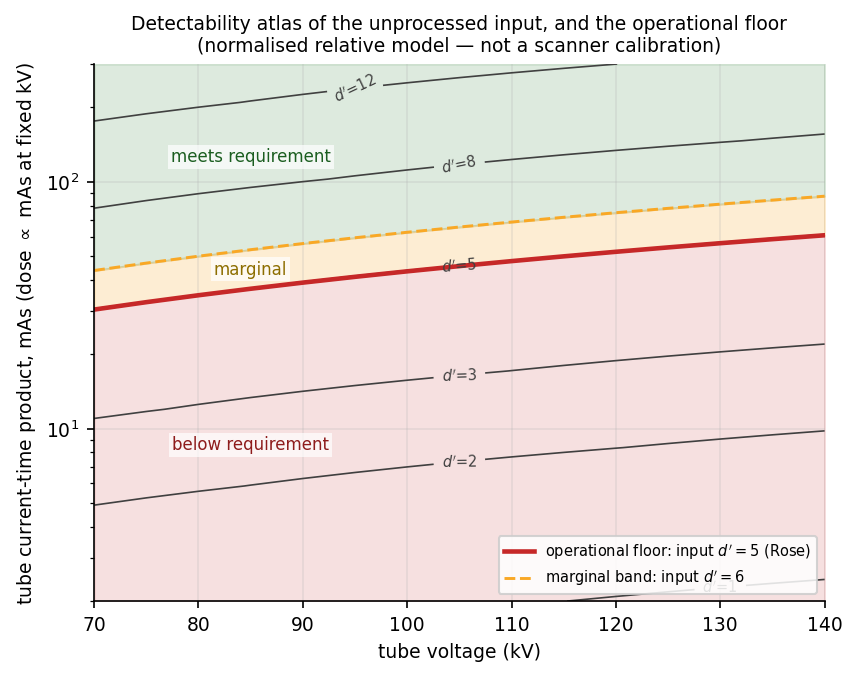
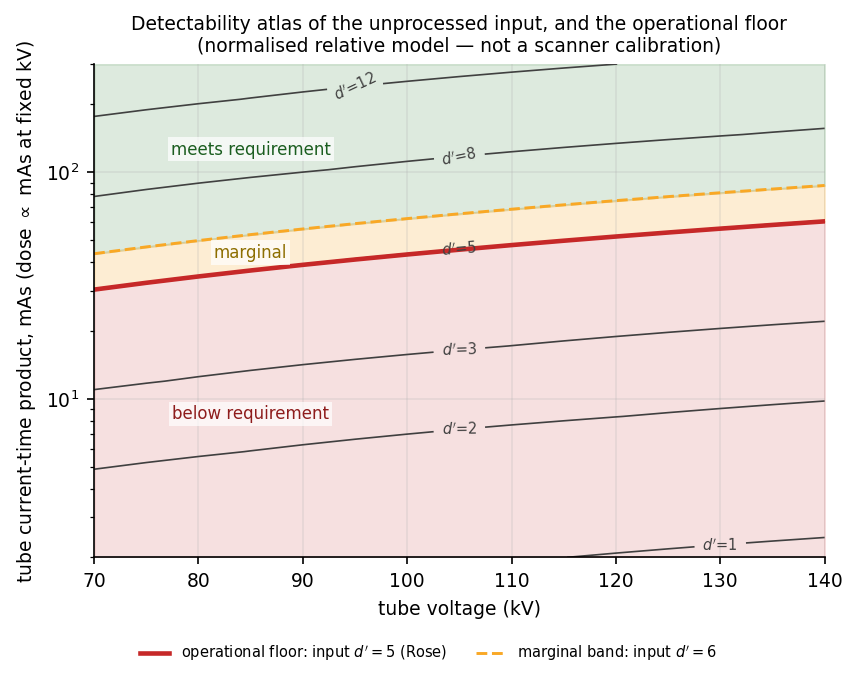
Sweep the remaining figures for the same two faults
After Figures 1, 3 and 6 each turned out to have shipped something wrong, the
other six were checked for the same two things: does the figure hide any of its
own data, and does it say what the text says.

Figure 9's right panel was titled "86x the capacity". That is the claim the
independent review asked to be withdrawn and that Table 3, Contribution 5,
Section 3.6 and the abstract have all been corrected to drop: the two networks
differ in parameters, training patches and epochs together. The title now says
so. Every other place in the submission had been fixed and the figure had not,
which is the same front-matter drift as before wearing a different hat.

Figure 7's legend covered the d'=1 contour. Moving it to the upper left only
traded that for the d'=12 label -- every corner of a contour plot that spans
the axes has a contour in it -- so the legend went outside the axes, where it
cannot cover anything. All six contours and their labels are now visible.

Figure 8's zero panel auto-scaled symmetrically about zero and offered a -6%
tick. A fraction of evaluations has no negative half, and an axis that shows one
reads as a measurement rather than the absence of one. Rate panels start at zero.

Figures 4, 5 and S1 were checked and left alone.

diff --git a/denoiq_core/figures.py b/denoiq_core/figures.py
@@ -464,7 +464,12 @@ def figure7_redlamp_atlas(path: Path, atlas_payload: dict[str, Any]) -> Path:
             "(normalised relative model — not a scanner calibration)",
             fontsize=9,
         )
-        ax.legend(fontsize=7, loc="lower right", framealpha=0.85, frameon=True)
+        # Outside the axes. Inside, every corner has a contour or a contour label in it:
+        # lower right hid the d'=1 line, and moving the panel to the upper left only
+        # traded that for the d'=12 label. A legend that has to cover something belongs
+        # somewhere it cannot.
+        handles, labels = ax.get_legend_handles_labels()
+        fig.legend(handles, labels, fontsize=7, loc="outside lower center", ncol=2)
         return _save(fig, path)
 
 
@@ -660,6 +665,10 @@ def figure8_floor_strata(path: Path, statistics: dict[str, Any]) -> Path:
             if as_percent:
                 ax.yaxis.set_major_formatter(lambda value, _pos: f"{value:.0%}")
             ax.margins(y=0.18)
+            # A fraction of evaluations has no negative half. Where every stratum is zero
+            # matplotlib centres an empty axis on it and offers a -6% tick, which reads as
+            # a measurement rather than as the absence of one.
+            ax.set_ylim(bottom=0.0)
         axes[0].set_ylabel("fraction of evaluations")
         fig.suptitle(
             "Failure patterns by the detectability available in the input\n"

diff --git a/paper/make_real_liver_figure.py b/paper/make_real_liver_figure.py
@@ -91,7 +91,7 @@ def main() -> int:
     axL.spines[["top", "right"]].set_visible(False)
     axL.legend(fontsize=7.5, loc="lower left", frameon=True, framealpha=0.95, ncol=2)
 
-    # --- right: what 86x the capacity bought, and what it cost ---------------------
+    # --- right: what the larger configuration bought, and what it cost -------------
     cap = data["capacity"]
     small, large = cap["small"], cap["large"]
     x = [0, 1]
@@ -109,11 +109,14 @@ def main() -> int:
     twin.tick_params(axis="y", labelcolor="#4C78A8")
     # Both axes span only their own two points, so state the sizes rather than let
     # the scaling imply that a 0.04 dB gain and a 0.35 loss in d' are comparable.
+    # "the capacity" would say the two networks differ in capacity alone. They do not:
+    # parameters, training patches and epochs all move together, as Table 3 and Section
+    # 3.6 state. The figure has to say the same thing the text says.
     axR.set_title(
-        f"{cap['parameter_ratio']:.0f}x the capacity: "
-        f"PSNR {large['psnr'] - small['psnr']:+.2f} dB, "
+        f"larger configuration ({cap['parameter_ratio']:.0f}× the parameters, "
+        f"more patches, more epochs):\nPSNR {large['psnr'] - small['psnr']:+.2f} dB, "
         f"$d'$ {large['d_prime'] - small['d_prime']:+.2f}",
-        fontsize=9.5,
+        fontsize=9,
     )
     axR.set_xlim(-0.35, 1.35)
     axR.grid(alpha=0.3, axis="y")
